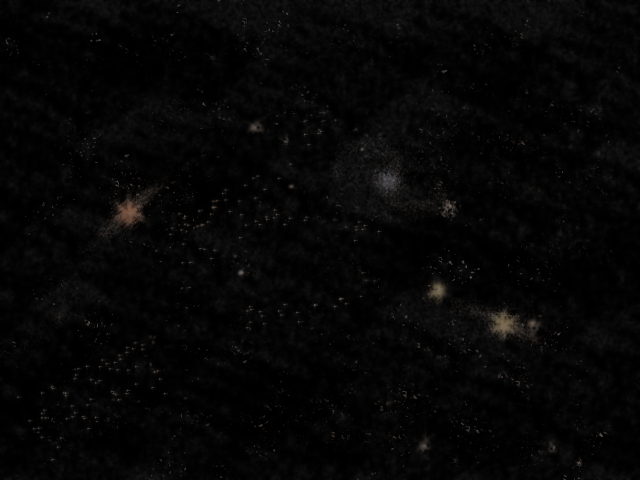
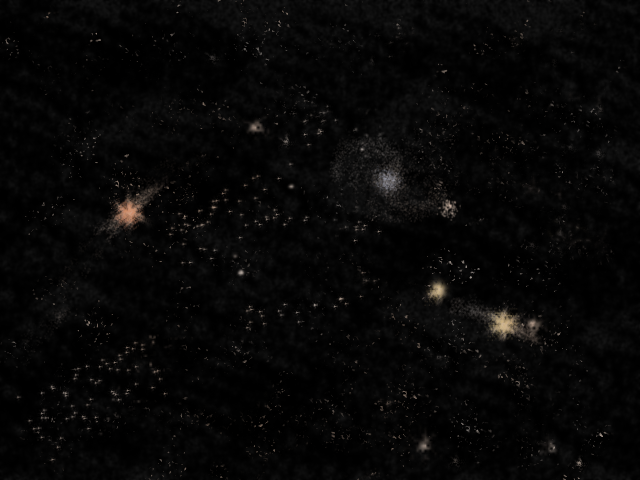
added asteroids, abstracted Pool class

diff --git a/spacegame.js b/spacegame.js
@@ -15,8 +15,13 @@
     this.imgs        = {
       "bg1"            : "img/bglayer1.png",
       "bg2"            : "img/bglayer2.png",
+      "bg3"            : "img/bglayer3.png",
       "playership"     : "img/playership.png",
-      "playerbullet"   : "img/playerbullet.png"
+      "playerbullet"   : "img/playerbullet.png",
+      "asteroid1"      : "img/asteroid1.png",
+      "asteroid2"      : "img/asteroid2.png",
+      "asteroid3"      : "img/asteroid3.png",
+      "asteroid4"      : "img/asteroid4.png",
     };
     var assetsLoaded = 0;                                // how many assets have been loaded
     var numImgs      = Object.keys(this.imgs).length;    // total number of image assets
@@ -72,12 +77,14 @@
 
   var background = (function() {
     var layer1   = {};
-    var layer2    = {};
+    var layer2   = {};
+    var layer3   = {};
     
     this.move = function(dt){
       // Pan background
       layer1.x -= layer1.speed * dt * 60/1000;
       layer2.x -= layer2.speed * dt * 60/1000;
+      layer3.x -= layer3.speed * dt * 60/1000;
       // If the image scrolled off the screen, reset
       if (layer1.x + assetLoader.imgs.bg1.width <= 0){
         layer1.x = 0;
@@ -85,6 +92,10 @@
       if (layer2.x + assetLoader.imgs.bg2.width <= 0){
        layer2.x = 0;
       }
+      if (layer3.x + assetLoader.imgs.bg3.width <= 0){
+       layer3.x = 0;
+      }
+
     }
 
     /**
@@ -96,6 +107,8 @@
       ctx.drawImage(assetLoader.imgs.bg1, layer1.x + canvas.width, layer1.y);
       ctx.drawImage(assetLoader.imgs.bg2, layer2.x, layer2.y);
       ctx.drawImage(assetLoader.imgs.bg2, layer2.x + canvas.width, layer2.y);
+      ctx.drawImage(assetLoader.imgs.bg3, layer3.x, layer3.y);
+      ctx.drawImage(assetLoader.imgs.bg3, layer3.x + canvas.width, layer3.y);
     }
     /**
      * Reset background to zero
@@ -106,7 +119,10 @@
       layer1.speed = 2;
       layer2.x = 0;
       layer2.y = 0;
-      layer2.speed = 5;
+      layer2.speed = 3;
+      layer3.x = 0;
+      layer3.y = 0;
+      layer3.speed = 5;
     }
     return {
       draw: this.draw,
@@ -116,45 +132,10 @@
   })(); // end background
 
   function GameElement() {
+    
   }
-
-  GameElement.prototype.init = function init (x, y, width, height, speed) {
-    // Defualt variables
-    this.x = x;
-    this.y = y;
-    this.width = width;
-    this.height = height;
-    this.speed = speed;
-  }
-
-  function Bullet(x, y, width, height, speed){
-    this.visible = false;
-    this.x = x;
-    this.y = y;
-    this.width = width;
-    this.height = height;
-    this.speed = speed;
-
-  }
-  Bullet.prototype = Object.create(GameElement.prototype);
-  Bullet.prototype.draw = function draw() {
-    if(this.visible=true){
-      ctx.drawImage(assetLoader.imgs.playerbullet, this.x, this.y);
-    }
-  };
-  Bullet.prototype.move = function move(dt) {
-    this.x += this.speed * dt * 60/1000;
-    if (this.x >= canvas.width) {
-      return true;
-    }
-  }
-  Bullet.prototype.clear = function clear() {
-    this.x = 0;
-    this.y = 0;
-    this.speed = 0;
-    this.visible = false;
-  };
-  Bullet.prototype.spawn = function spawn(x, y, speed) {
+   GameElement.prototype.spawn = function spawn(x, y, speed) {
+    this.load();
     this.x = x;
     this.y = y;
     this.speed = speed;
@@ -162,28 +143,97 @@
   };
 
 
-  function BulletPool(){
-  }
-
-  BulletPool.prototype.init = function init(size){
-      this.pool = [];
-      this.size = size;
-      var bulletWidth = assetLoader.imgs.playerbullet.width;
-      var bulletHeight = assetLoader.imgs.playerbullet.height;
-      for (var i = 0; i < size; i++) {
-        // Initalize the bullet object
-        var bullet = new Bullet (0,0, bulletWidth,bulletHeight, 7);
-        this.pool[i] = bullet;
+  GameElement.prototype.draw = function draw() {
+    if(this.visible=true){
+      if(this.rspeed){
+        // save the context's co-ordinate system before 
+        // we screw with it
+        ctx.save(); 
+ 
+        // move the origin to 50, 35   
+        ctx.translate(this.x, this.y); 
+         
+        // now move across and down half the 
+        // width and height of the image (which is 128 x 128)
+        ctx.translate(this.width/2, this.height/2); 
+         
+        // rotate around this point
+        ctx.rotate(this.rot); 
+         
+        // then draw the image back and up
+        ctx.drawImage(this.img, -this.width/2, -this.height/2); 
+         
+        // and restore the co-ordinate system to its default
+        // top left origin with no rotation
+        ctx.restore();
+      } else {
+        ctx.drawImage(this.img, this.x, this.y);
+      }
     }
   };
 
-  BulletPool.prototype.get = function get(x, y, speed){
+  GameElement.prototype.clear = function clear() {
+    this.x = 0;
+    this.y = 0;
+    this.speed = 0;
+    this.visible = false;
+  };
+
+  function PlayerBullet(){
+  }
+  PlayerBullet.prototype = Object.create(GameElement.prototype);
+  PlayerBullet.prototype.move = function move(dt) {
+    this.x += this.speed * dt * 60/1000;
+    if (this.x >= canvas.width) {
+      return true;
+    }
+  }
+  PlayerBullet.prototype.load = function load(){
+    this.img = assetLoader.imgs.playerbullet;
+    this.width = this.img.width;
+    this.height = this.img.height;
+  }
+  function Pool(){
+  }
+
+  function Asteroid(){}
+
+  Asteroid.prototype = Object.create(GameElement.prototype);
+  Asteroid.prototype.load = function load(){
+    this.img = asteroidPool.images[Math.floor(Math.random() * asteroidPool.images.length)];
+    this.width = this.img.width;
+    this.height = this.img.height;
+    this.rspeed = (Math.random() - 0.5)/20;
+    this.rot = 0;
+  }
+  Asteroid.prototype.move = function move(dt) {
+    this.x -= this.speed * dt * 60/1000;
+    this.rot += this.rspeed * dt * 60/1000;
+    /*if (this.rot >= Math.PI * 2){
+      this.rot = 0;
+    }*/
+    if (this.x <= 0 - this.width) {
+      return true;
+    }
+  }
+  
+  Pool.prototype.init = function init(size, type){
+      this.pool = [];
+      this.size = size;
+      for (var i = 0; i < size; i++) {
+        // Initalize the object
+        var item = Object.create(type.prototype);
+        this.pool[i] = item;
+    }
+  };
+
+  Pool.prototype.get = function get(x, y, speed){
     if(!this.pool[this.size - 1].visible) {
       this.pool[this.size - 1].spawn(x, y, speed);
       this.pool.unshift(this.pool.pop());
     }
   };
-  BulletPool.prototype.animate = function animate(dt) {
+  Pool.prototype.animate = function animate(dt) {
     for (var i = 0; i < this.size; i++) {
       // Only draw until we find a bullet that is not alive
       if (this.pool[i].visible) {
@@ -198,7 +248,7 @@
     }
   };
 
-  BulletPool.prototype.draw = function draw() {
+  Pool.prototype.draw = function draw() {
     for (var i = 0; i<this.size; i++){
       if(this.pool[i].visible){
         this.pool[i].draw();
@@ -210,12 +260,21 @@
       var fireRate = 10;
       var counter = 0;
 
+      ship.init = function init(x, y, speed){
+        ship.img = assetLoader.imgs.playership;
+        ship.width = ship.img.width;
+        ship.height = ship.img.height;
+        ship.x = x;
+        ship.y = y; 
+        ship.speed = speed;
+      }
+
       ship.makeBullets = function (){
-        ship.bulletPool = Object.create(BulletPool.prototype);
-        ship.bulletPool.init(30);
+        ship.bulletPool = Object.create(Pool.prototype);
+        ship.bulletPool.init(30, PlayerBullet);
       };
       ship.draw = function() {
-        ctx.drawImage(assetLoader.imgs.playership, ship.x, ship.y);
+        ctx.drawImage(ship.img, ship.x, ship.y);
       };
       ship.move = function(dt) {
         counter++;
@@ -265,7 +324,15 @@
       return ship;
   })(Object.create(GameElement.prototype));
 
-  
+  var asteroidPool = (function(pool){
+    pool.generate = function generate(){ 
+      var asteroidChance = Math.floor(Math.random()*101);
+      if (asteroidChance/100 < 0.003) {
+        pool.get(canvas.width, Math.floor(Math.random() * canvas.height), 6);
+      }
+    }
+    return pool;
+  })(Object.create(Pool.prototype))
   /**
    * Game loop
    */
@@ -277,15 +344,19 @@
 
     ctx.clearRect(0, 0, canvas.width, canvas.height);
     accumulator += dt;
-    while (accumulator >= dt) {
+    asteroidPool.generate();
+
+   while (accumulator >= dt) {
         ship.move(dt);
         background.move(dt);
         ship.bulletPool.animate(dt);
+        asteroidPool.animate(dt);
         accumulator -= dt;
     }
     background.draw();
     ship.draw();
     ship.bulletPool.draw();
+    asteroidPool.draw();
   }
 
   function startGame() {
@@ -293,10 +364,11 @@
     ship.init(
       0, 
       Math.floor(canvas.height/2 - assetLoader.imgs.playership.height/2), 
-      assetLoader.imgs.playership.width, 
-      assetLoader.imgs.playership.height,
-      5
+      5,
+      assetLoader.imgs.playership
     )
+    asteroidPool.init(5, Asteroid);
+    asteroidPool.images = [assetLoader.imgs.asteroid1, assetLoader.imgs.asteroid2, assetLoader.imgs.asteroid3, assetLoader.imgs.asteroid4]
     ship.makeBullets();
     ship.draw();
     animate();
